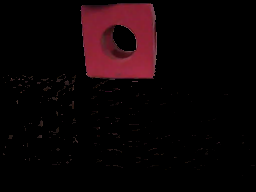
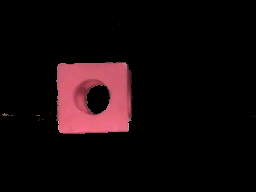
vision final code initial

diff --git a/vision.py b/vision.py
@@ -5,7 +5,6 @@ import time, math
 from Queue import *
 
 
-# Camera 0 is the integrated web cam on my netbook
 camera_port = 1
  
 #Number of frames to throw away while the camera adjusts to light levels
@@ -19,7 +18,9 @@ x - x-coordinate of the pixel of color object
 y - y-coordinate of the pixel of color object
 
 Returns:
-the average of all the pixels the color object is composed of
+avg_x - the average x-coordinate of all the pixels in the color object
+avg_y - the average y-coordinate of all the pixels in the color object
+total - the total number of pixels in the color object
 '''
 def calculate_average(src, x, y):
 
@@ -61,6 +62,15 @@ def calculate_average(src, x, y):
 	return avg_x, avg_y, total
 
 
+'''
+Params:
+src - the source image
+x - x-coordinate of the pixel of color object
+y - y-coordinate of the pixel of color object
+
+Returns:
+True if the neighboring pixel is a red pixel, otherwise False
+'''
 def check_neighbor(src, x, y):
 	r = src[y][x][2]
 	g = src[y][x][1]
@@ -81,44 +91,55 @@ def get_image():
 	retval, im = camera.read()
 	return im
  
-# Ramp the camera - these frames will be discarded and are only used to allow v4l2
-# to adjust light levels, if necessary
-for i in xrange(ramp_frames):
-	temp = get_image()
+
+'''
+Params:
+src - the source image
+x - x-coordinate of the pixel of color object
+y - y-coordinate of the pixel of color object
+
+Returns:
+avg_x - the average x-coordinate of all the pixels in the color object
+avg_y - the average y-coordinate of all the pixels in the color object
+total - the total number of pixels in the color object
+'''
+def vision(color):
 
 
-print "Taking pictures..."
-
-# Take the actual image we want to keep
-camera_capture = get_image()
-
-# Scale down the image by 1/4
-img = scipy.misc.imresize(camera_capture, 0.25)
-
-img = cv2.imread("orig_img.png")
-img_w = img.shape[1]
-img_h = img.shape[0]
+	# Ramp the camera - these frames will be discarded and are only used to allow v4l2
+	# to adjust light levels, if necessary
+	for i in xrange(ramp_frames):
+		temp = get_image()
 
 
-print "Creating mask..."
 
-mask = np.zeros((img_h, img_w), dtype=np.uint8)
+	# Take the actual image we want to keep
+	camera_capture = get_image()
 
-for x in xrange(img_w):
-	for y in xrange(img_h):
+	img = scipy.misc.imresize(camera_capture, 0.25)
+	img_w = img.shape[1]
+	img_h = img.shape[0]
 
-		r = img[y][x][2]
-		g = img[y][x][1]
-		b = img[y][x][0]
+	cv2.imwrite("orig_img.png", img)
 
-		if (r > 1.3 * g and r > 1.3 * b):
-			mask[y][x] = np.array([255], dtype=np.uint8)
-		else:
-			mask[y][x] = np.array([0], dtype=np.uint8)
+	# Creating mask
+	mask = np.zeros((img_h, img_w), dtype=np.uint8)
 
-cv2.imwrite("mask_2.png", mask)
+	for x in xrange(img_w):
+		for y in xrange(img_h):
 
-print "Creating resulting red only picture..."
+			r = img[y][x][2]
+			g = img[y][x][1]
+			b = img[y][x][0]
+
+			if (r > 1.3 * g and r > 1.3 * b):
+				mask[y][x] = np.array([255], dtype=np.uint8)
+			else:
+				mask[y][x] = np.array([0], dtype=np.uint8)
+
+	cv2.imwrite("mask_2.png", mask)
+
+	print "Creating resulting red only picture..."
 
 res_red = cv2.bitwise_and(img, img, mask= mask)
 
